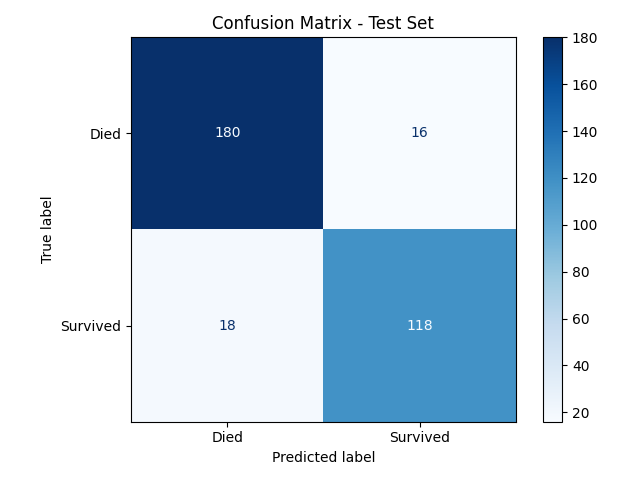
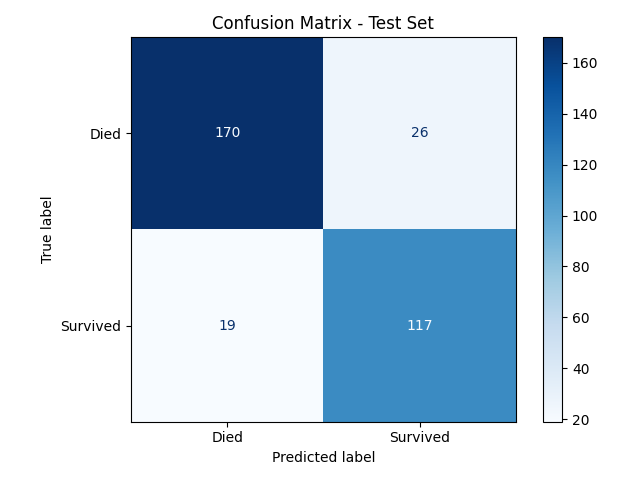
test implemented

diff --git a/Algorithms/Neural_network/Neural_network.py b/Algorithms/Neural_network/Neural_network.py
@@ -2,7 +2,7 @@ from Neural_Networks_Sub.Back_Propagation.back_propagation import backPropagatio
 from Neural_Networks_Sub.Neural_Network.test_neural_network import testNeuralNetwork
 from Utils.data_set_reader import csv_reader
 from Utils.pre_processing import treat_data
-from Utils.metrics_visual import plot_roc_curve, plot_survival_distribution
+from Utils.metrics_visual import plot_roc_curve, plot_survival_distribution, save_confusion_matrix, save_classification_report_image
 from imblearn.over_sampling import SMOTE
 import pandas as pd
 
@@ -24,7 +24,47 @@ def neural_network():
         columns_to_scale = columns_to_normalize
     )
 
+    X_test = data_test.dropna().astype(float)
+
     model = train_model()
+
+
+    left_indexes = X_test.index
+
+    y_true = true_labels['Survived'].replace(0, -1)
+    y_test = testNeuralNetwork(layers = model, test_inputs = X_test, test_expected_outputs = y_true, activation="tanh")
+
+    y_true_clean = y_true.loc[left_indexes]
+
+    # y_proba_test = model.predict_proba(X_test)[:, 1]
+
+    # plot_roc_curve(
+    #     y_true=y_true_clean,
+    #     y_proba=y_proba_test,
+    #     title='Curva ROC - Random Forest (Test)',
+    #     save_path='Analysis/Random_forest/roc_curve_rf_test.png',
+    #     show=True
+    # )
+
+    y_test_metrics = [0 if y == -1 else 1 for y in y_test]
+    y_true_metrics = y_true_clean.replace(-1, 0)
+
+    save_confusion_matrix(
+        y_true=y_true_metrics,
+        y_pred=y_test_metrics,
+        class_labels=["Died", "Survived"],
+        save_path="Analysis/Random_forest/conf_matrix_rf_test.png",
+        show=True,
+        title="Confusion Matrix - Test Set"
+    )
+
+    save_classification_report_image(
+        y_true=y_true_metrics,
+        y_pred=y_test_metrics,
+        class_labels=["Died", "Survived"],
+        save_path="Analysis/Random_forest/classification_report_rf_test.png",
+        title="Classification Report - Random Forest"
+    )
 
 def train_model():
 
@@ -43,8 +83,10 @@ def train_model():
         columns_to_scale = columns_to_normalize
     )
 
-    X_train = data_train.drop('Survived', axis=1)
-    y_train = data_train['Survived']
+    X_train = data_train.drop('Survived', axis=1).astype(float)
+    y_train = data_train['Survived'].replace(0, -1)
+
+
 
     plot_survival_distribution(
         train_labels=y_train,
@@ -67,11 +109,11 @@ def train_model():
     print(y_resampled)
 
     model = backPropagation(
+        4, 
         3, 
-        3, 
-        X_resampled.to_numpy().tolist(), 
+        X_resampled.astype(float).to_numpy().tolist(), 
         y_resampled.to_numpy().tolist(), 
-        2000, 
+        1000, 
         0.01, 
         "Titanic", 
         "tanh", 
